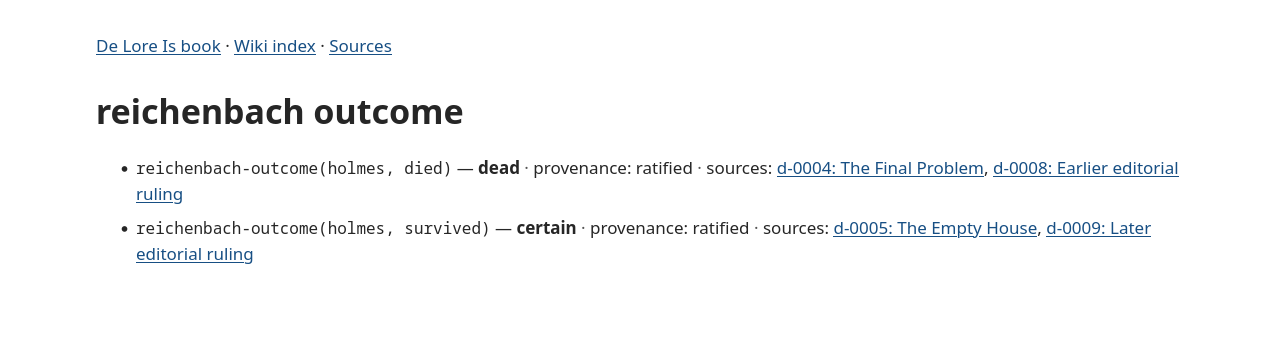
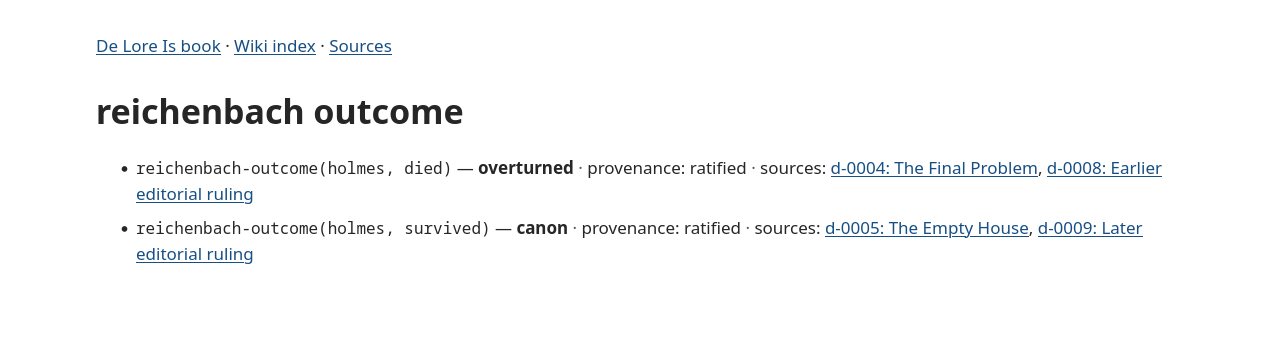
Refresh the casebook resource pack (#245)

Changed region(s): [[0.4062, 0.6111, 0.9062, 0.6722], [0.375, 0.4278, 0.9375, 0.4889], [0.0938, 0.5194, 0.2188, 0.5806]]

diff --git a/scripts/mesite-pack.py b/scripts/mesite-pack.py
@@ -15,6 +15,7 @@ pack = root / "docs/release/mesite-pack"
 selections = {
     "01-watson-name.md": "docs/casebook/01-watson-name.md",
     "02-wounds.md": "docs/casebook/02-wounds.md",
+    "03-timeline.md": "docs/casebook/03-timeline.md",
     "04-return.md": "docs/casebook/04-return.md",
     "06-rules.md": "docs/casebook/06-rules.md",
 }

diff --git a/docs/release/mesite-pack/excerpts/03-timeline.md b/docs/release/mesite-pack/excerpts/03-timeline.md
@@ -1,0 +1,75 @@
+# Putting cases in order
+
+[*A Scandal in Bohemia*](https://www.gutenberg.org/files/1661/1661-h/1661-h.htm#chap01) places Watson's married visit to Holmes on 20 March 1888. [*The Sign of the Four*](https://www.gutenberg.org/files/2097/2097-h/2097-h.htm#chap03) puts his meeting with Mary Morstan on a September evening. Three clues point toward 1888: an advertisement of 4 May 1882 was about six years before her visit, her father's disappearance in December 1878 was nearly ten years earlier, and she has received six yearly pearls.
+
+Those clues make September 1888 a strong interpretation, though the story
+does not give the year outright. If Watson's wife in the earlier story is Mary,
+he is married to her before he meets her. We record both interpretations as
+ordering claims: Mary meets Watson before the married visit, and the March
+visit comes before their September meeting. The latter is our dating ruling,
+not a date printed in the story. De Lore Is reports:
+
+```text
+continuity.chronology-cycle: the chronology contradicts itself: an ordering cycle over 2 edge(s) — scandal -> mary-case, mary-case -> scandal
+supporting decisions: d-0002, d-0006, d-0007
+```
+
+The conflicting claims are staged for the check and not committed. If a writer
+does not accept the 1888 interpretation or the identification of Watson's wife,
+the two events can remain unordered instead.
+
+The model puts both events in the 1880s, the Reichenbach encounter in 1891,
+and Holmes's return in 1894. We record the order of those eras under an
+editorial decision. The timeline follows the recorded order; it does not fill
+in an order between the two 1880s cases.
+
+The relevant model lines are:
+
+```dli
+era years-1880s "The 1880s" ratified d-0006
+era year-1891   "1891"      ratified d-0006
+era year-1894   "1894"      ratified d-0006
+event scandal               "A Scandal in Bohemia"         during years-1880s ratified d-0007
+event mary-case             "Mary Morstan consults Holmes" during years-1880s ratified d-0002
+event reichenbach-encounter "The Reichenbach encounter"    during year-1891 ratified d-0004
+event return                "Holmes returns"               during year-1894 ratified d-0005
+before years-1880s -> year-1891 ratified d-0006
+before year-1891 -> year-1894 ratified d-0006
+```
+
+The committed model's Markdown timeline is:
+
+## Known order
+
+These are the nearest known orderings. Follow the arrows for later points; points without a connecting path are unordered.
+
+Points: `mary-case`, `reichenbach-encounter`, `return`, `scandal`, `year-1891`, `year-1894`, `years-1880s`
+
+- `mary-case` → `reichenbach-encounter`
+- `mary-case` → `year-1891`
+- `reichenbach-encounter` → `return`
+- `reichenbach-encounter` → `year-1894`
+- `scandal` → `reichenbach-encounter`
+- `scandal` → `year-1891`
+- `year-1891` → `return`
+- `year-1891` → `year-1894`
+- `years-1880s` → `reichenbach-encounter`
+- `years-1880s` → `year-1891`
+
+Follow the arrows to see the known order. Points with no connecting path are
+unordered, not necessarily simultaneous.
+
+## Run it yourself
+
+From the repository root, with `deloreis` installed, run:
+
+```sh
+python3 examples/holmes/try_casebook.py timeline
+```
+
+This replays the casebook in a temporary project and prints:
+
+```text
+continuity.chronology-cycle
+supporting decisions: d-0002, d-0006, d-0007
+```

diff --git a/docs/release/mesite-pack/excerpts/01-watson-name.md b/docs/release/mesite-pack/excerpts/01-watson-name.md
@@ -1,6 +1,9 @@
 # What should we call Watson?
 
-The narrator is named John H. Watson in the opening of [*A Study in Scarlet*, part I](https://www.gutenberg.org/files/244/244-h/244-h.htm). In [*The Man with the Twisted Lip*](https://www.gutenberg.org/files/1661/1661-h/1661-h.htm#chap06), his wife offers to send “James” to bed while Watson is present.
+To follow the tool calls throughout the casebook, start the MCP server with
+`deloreis mcp --project <directory> --tools all`.
+
+The part I title of [*A Study in Scarlet*](https://www.gutenberg.org/files/244/244-h/244-h.htm) names its narrator John H. Watson. In [*The Man with the Twisted Lip*](https://www.gutenberg.org/files/1661/1661-h/1661-h.htm#chap06), his wife offers to send “James” to bed while Watson is present.
 
 Is James another name for Watson, a slip, or something else? The story does
 not settle that question. For this example, we will make a deliberately strict
@@ -11,7 +14,7 @@ De Lore Is records the rule and the John claim with the decisions that support
 them. A decision is a named ruling: `d-0006` is our modelling rule, and
 `d-0001` points to *A Study in Scarlet*. `ratified` records that we accepted
 the claim; later rulings can still change what follows. `functional` means at
-most one value for each person. [Concepts](../concepts.md) explains the terms.
+most one value for each person. [Concepts](../concepts.md#sources-and-rulings) explains the terms.
 These are the lines returned by the authoring tools:
 
 ```dli
@@ -37,3 +40,18 @@ choice that needs attention and names the sources behind it. A writer could
 keep both as names people use instead of treating them as mutually exclusive
 first names. The [source notes](../../examples/holmes/sources.md) explain the
 decision numbers and the limits of the evidence.
+
+## Run it yourself
+
+From the repository root, with `deloreis` installed, run:
+
+```sh
+python3 examples/holmes/try_casebook.py name
+```
+
+This replays the casebook in a temporary project and prints:
+
+```text
+continuity.fd-violation
+supporting decisions: d-0001, d-0003
+```

diff --git a/docs/release/mesite-pack/excerpts/04-return.md b/docs/release/mesite-pack/excerpts/04-return.md
@@ -1,6 +1,6 @@
 # The return from Reichenbach
 
-At the end of [*The Final Problem*](https://www.gutenberg.org/files/834/834-h/834-h.htm), Watson concludes that Holmes died at Reichenbach. In [*The Empty House*](https://www.gutenberg.org/files/108/108-h/108-h), Holmes returns and explains that he escaped. We can revise the earlier ruling while keeping its history.
+At the end of [*The Final Problem*](https://www.gutenberg.org/files/834/834-h/834-h.htm), Watson concludes that Holmes died at Reichenbach. In [*The Empty House*](https://www.gutenberg.org/files/108/108-h/108-h.htm#chap01), Holmes returns and explains that he escaped. We can revise the earlier ruling while keeping its history.
 
 First, our editorial decision `d-0008` accepts Watson's conclusion, supported
 by source `d-0004`. The authoring tool renders the claim as:
@@ -31,12 +31,30 @@ reichenbach-outcome(holmes, survived): certain
 When we ask why the old claim no longer holds, the explanation says:
 
 ```text
-status: dead
+status: overturned
 support: d-0004, d-0008
 d-0009 defeats d-0008
 ```
 
-Here `dead` describes the old claim's support under the new rulings. The claim
+The old claim is overturned under the new rulings. The claim
 and the earlier decision are still available to explain what changed. This is
 a model of a revised account: the later story does not say Holmes died and
 came back to life.
+
+In the calls below, `claim_id` identifies the recorded claim to revise. A
+`{"Sym": "holmes"}` value is the wire format for the symbol `holmes`.
+
+## Run it yourself
+
+From the repository root, with `deloreis` installed, run:
+
+```sh
+python3 examples/holmes/try_casebook.py return
+```
+
+This replays the casebook in a temporary project and prints:
+
+```text
+earlier claim: overturned
+supporting decisions: d-0004, d-0008
+```

diff --git a/docs/release/mesite-pack/excerpts/06-rules.md b/docs/release/mesite-pack/excerpts/06-rules.md
@@ -1,7 +1,9 @@
 # When a rule causes the conflict
 
+The `author.add_rule` call below needs the MCP server's `--tools all` profile.
+
 Suppose we interpret the name James used by Watson's wife as referring to
-Watson, while the first chapter records John as his first name. Those two notes
+Watson, while the part I title names John as his first name. Those two notes
 can coexist. Now imagine a rule saying the name she uses must be his first name.
 This is a deliberately questionable rule: a person might use a nickname.
 
@@ -9,7 +11,14 @@ The authoring tool renders that rule as:
 
 ```dli
 rule wife-name-is-first-name ratified d-0006
-  first-name(watson, james) :- name-used-by-wife(watson, james)
+  first-name($person, $name) :- name-used-by-wife($person, $name)
+```
+
+The variables `$person` and `$name` stand for a person and a name. The rule
+uses this recorded fact:
+
+```dli
+watson.name-used-by-wife = james ratified d-0003
 ```
 
 The check follows the rule and reports:
@@ -23,3 +32,18 @@ citations: d-0001, d-0003, d-0006
 our rule. The conflict did not require us to type the James first-name claim:
 it followed from the rule and the note. In a real project, the right repair
 might be to change the rule rather than change either source.
+
+## Run it yourself
+
+From the repository root, with `deloreis` installed, run:
+
+```sh
+python3 examples/holmes/try_casebook.py rule
+```
+
+This replays the casebook in a temporary project and prints:
+
+```text
+continuity.derived-fd-violation
+supporting decisions: d-0001, d-0003, d-0006
+```

diff --git a/docs/release/mesite-pack/brief.md b/docs/release/mesite-pack/brief.md
@@ -25,6 +25,11 @@ Reichenbach example shows an earlier account, a later ruling, and the support
 that changed. A branch keeps the earlier possibility. Each interpretation is
 identified as a modelling choice and linked to the original stories.
 
+The chronology chapter tests another discrepancy: if Watson's wife in March
+1888 is Mary and her September visit is in 1888, their meeting comes both
+before and after his marriage. The year and identification are interpretations
+supported by the cited passages, not explicit dates for every event.
+
 Suggested overview: open with a concrete problem from a long-running world;
 show the Watson name check and the writer's choice; explain sourced claims,
 revision, and the local command-line and MCP interfaces; then link to the

diff --git a/docs/release/mesite-pack/excerpts/02-wounds.md b/docs/release/mesite-pack/excerpts/02-wounds.md
@@ -25,3 +25,18 @@ reported-wound-location(watson, leg): possible
 account is false or that De Lore Is has decided the wounds are the same. If a
 writer chooses a single-wound interpretation, they can add that rule and make
 a ruling later.
+
+## Run it yourself
+
+From the repository root, with `deloreis` installed, run:
+
+```sh
+python3 examples/holmes/try_casebook.py wounds
+```
+
+This replays the casebook in a temporary project and prints:
+
+```text
+reported-wound-location(watson, shoulder): possible
+reported-wound-location(watson, leg): possible
+```
